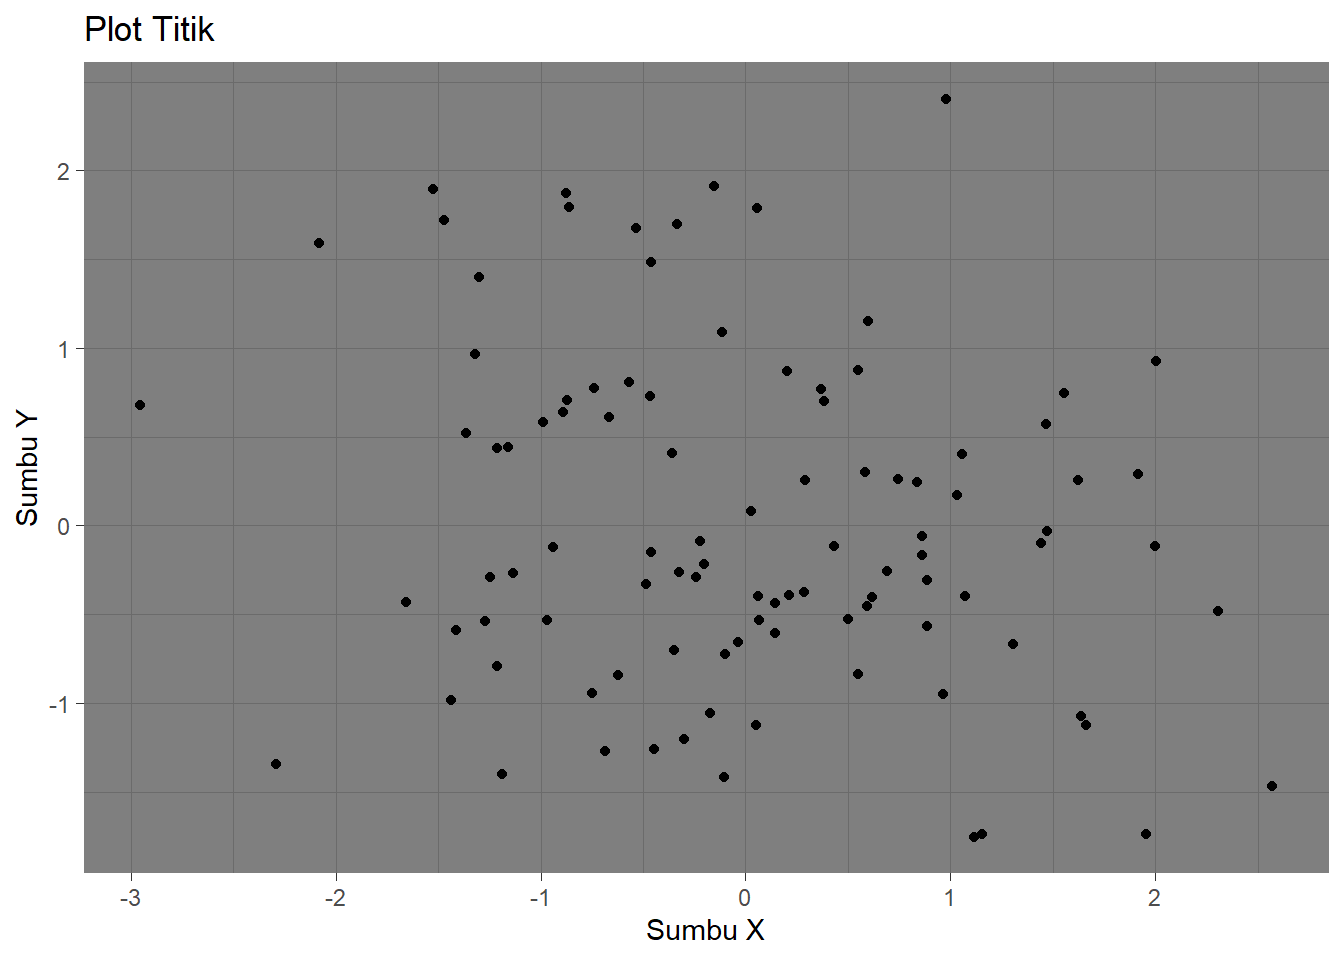
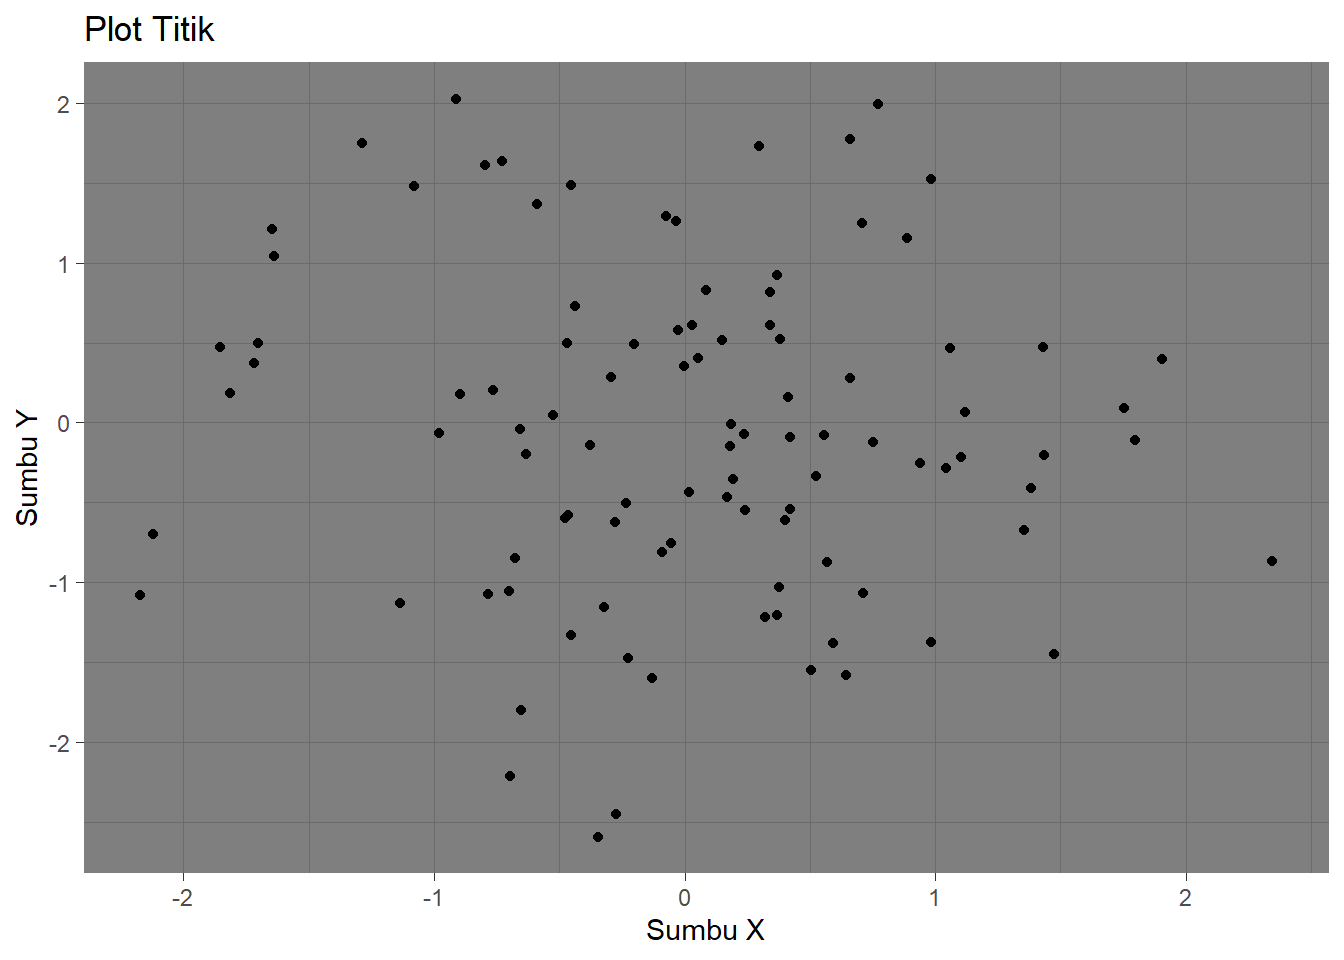
update

diff --git a/index.html b/index.html
@@ -1,0 +1,141 @@
+---
+title: "BY:LATIF ALMIZAN"
+output: html_document
+---
+
+---
+title: "BY:LATIF ALMIZAN"
+author: "Latif Almizan_A3202300022_Rekayasa perangkat Lunak_Institut Teknologi Statistika dan Bisnis Muhammadiyah"
+date: "`r Sys.Date()`"
+output:
+  prettydoc::html_pretty:
+    theme: cayman
+    highlight: github
+bibliography: references.bib
+---
+
+---
+
+{=html}
+<style>
+body{
+text-align: justify}
+</style>
+
+{r setup, include=FALSE}
+knitr::opts_chunk$set(echo = TRUE)
+
+
+# PENGANTAR GGPLOT 2
+
+GGPLOT2 adalah library R untuk membuat grafik data secara mudah dan menarik. Library ini menggunakan pendekatan "Grammar of Graphics" yang memungkinkan pengguna membangun grafik secara bertahap sesuai kebutuhan.
+
+Dengan GGPLOT2, Anda dapat membuat berbagai jenis grafik seperti scatter plot, bar chart, atau line chart untuk memahami pola dan hubungan dalam data. Grafik yang dihasilkan juga dapat disesuaikan untuk analisis maupun presentasi.
+
+Library ini sangat fleksibel dan sering digunakan bersama alat lain dalam tidyverse. Dengan dasar-dasar ggplot2, Anda bisa menyampaikan informasi data dengan lebih jelas dan efektif.
+
+## DASAR-DASAR GGPLOT2 INTRODUCTION
+
+adalah salah satu paket paling populer dalam R untuk membuat visualisasi data. Paket ini mengimplementasikan pendekatan grammar of graphics yang memungkinkan pengguna untuk membangun grafik dengan cara yang sangat fleksibel dan intuitif.
+Berikut adalah dasar-dasar GGplot2 yang perlu Anda ketahui:
+
+1.MENGIMPOR PAKET: Anda harus mengimpor paket GGplot2 sebelum menggunakannya.
+
+  library(ggplot2)
+
+2.DATA FRAME: GGplot2 bekerja dengan data frame. Pastikan data Anda dalam format data frame.
+
+  data <- data.frame(x = 1:10, y = rnorm(10))
+
+
+3.STRUKTUR DASAR: Plot dasar dalam GGplot2 dibangun dengan fungsi ggplot(), diikuti oleh lapisan geom yang menentukan jenis plot.
+
+  ggplot(data, aes(x = x, y = y)) + geom_point()
+
+
+4.MAPPING ESTETIK: aes() digunakan untuk mendefinisikan estetika (misalnya, x, y, warna) yang akan dipetakan ke kolom data Anda.
+
+  ggplot(data, aes(x = x, y = y, color = y)) + geom_point()
+
+
+5.MENAMBAH LAPISAN: Anda dapat menambahkan beberapa lapisan geom untuk membuat plot yang lebih kompleks.
+
+  ggplot(data, aes(x = x, y = y)) +
+  geom_point() +
+  geom_smooth(method = "lm")
+
+
+6.PENYESUAIAN TEMA: GGplot2 menyediakan berbagai tema yang bisa digunakan untuk mengubah tampilan plot.
+
+  ggplot(data, aes(x = x, y = y)) + 
+  geom_point() +
+  theme_minimal()
+
+
+## CONTOH IMPLEMENTASI GGPLOT 1
+```{r}
+# memanggil library
+library(ggplot2)
+# membuat data dengan base R
+data <- data.frame(x = rnorm(100), y = rnorm(100))
+# membuat scotter plot
+ggplot(data, aes(x = x, y = y)) + 
+geom_point() + 
+labs(title = "Plot Titik", x = "Sumbu X", y = "Sumbu Y") +
+theme_dark()
+```
+
+
+
+Pada contoh di atas, ggplot() digunakan untuk menginisialisasi plot, aes() menentukan pemetaan estetika (sumbu x dan y), geom_point() menambahkan titik-titik ke plot, labs() menambahkan judul dan label sumbu, dan theme_minimal() menerapkan tema minimalis.
+
+
+### Contoh penggunaan ggplot 2
+```{r}
+library(readr)
+lizard <- read_csv("lizards.csv")
+View(lizard)
+```
+### Contoh penggunaan ggplot 3
+```{r}
+ggplot(lizard, aes(x = total_length , y = weight)) + 
+geom_point() +
+labs(title = "Plot Titik", x = "total_length" , y = "weight" )
+```
+### Contoh penggunaan ggplot 4
+```{r}
+ggplot(lizard, aes(x = total_length , y = common_name)) + 
+geom_jitter() +
+labs(title = "Plot Titik", x = "total_length" , y = "common_name" )
+```
+### Contoh penggunaan ggplot 5
+```{r}
+ggplot(lizard, aes(x = total_length)) + 
+geom_histogram() +
+labs(title = "Plot histogram", x = "total_length" )
+```
+### Contoh penggunaan ggplot 6
+```{r}
+ggplot(lizard, aes( , y = common_name)) + 
+geom_bar() +
+labs(title = "Plot Bar",  , y = "common_name" )
+```
+### Contoh penggunaan ggplot 7
+```{r}
+ggplot(lizard, aes(x = weight)) + 
+geom_histogram(colour = "blue", fill = "purple", size = 2, linetype = "dotted") +
+labs(title = "Plot Histogram Berwarna", x = "weight" )
+```
+### Contoh penggunaan ggplot 8
+```{r}
+ggplot(lizard, aes(x = total_length , y = weight)) + 
+geom_point(colour = "red", shape = 21, size = 4) +
+labs(title = "Plot Titik", x = "total_length" , y = "weight" )
+```
+### Contoh penggunaan ggplot 9
+```{r}
+ggplot(lizard, aes(x = total_length, y = weight, color = common_name, size = total_length)) + 
+  geom_point(shape = 19) + 
+  labs(title = "Plot Titik", x = "total_length", y = "weight") +
+  theme_minimal()
+```
